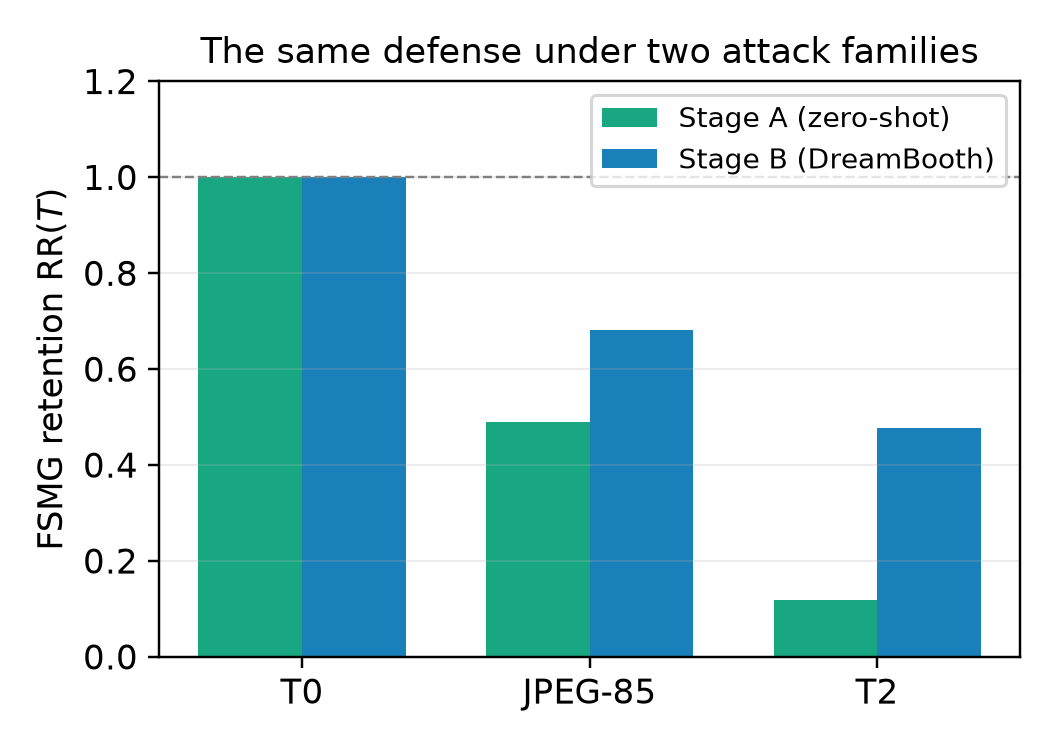
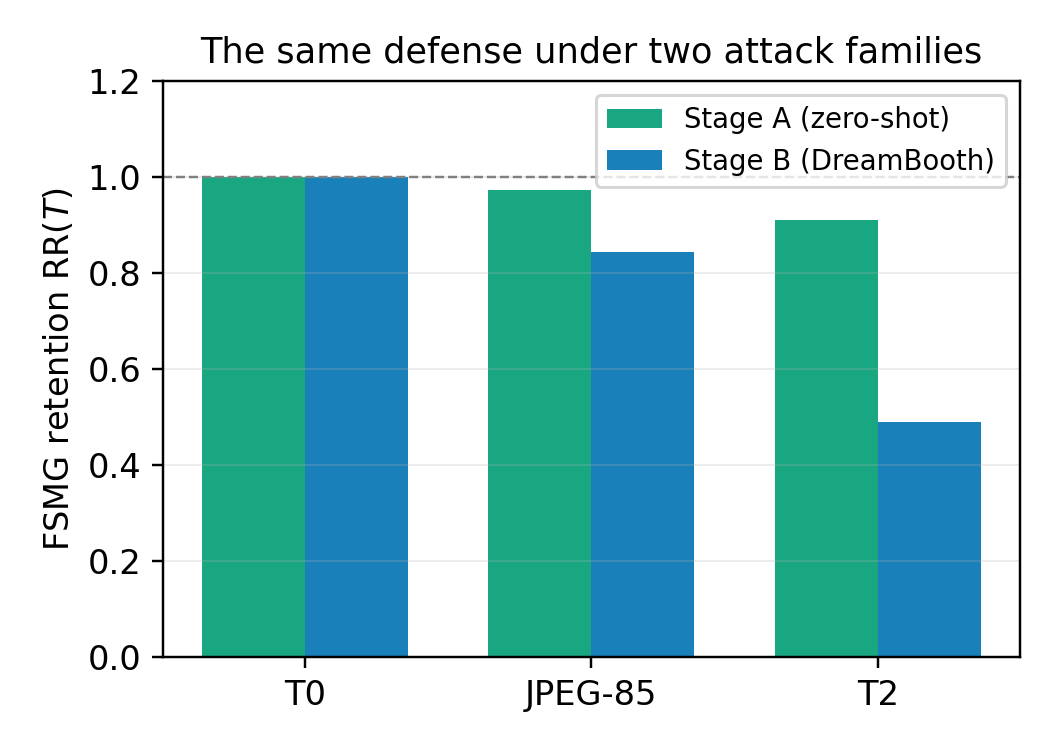
full-run results + figures 1011-0553

diff --git a/report/report.md b/report/report.md
@@ -1,65 +1,62 @@
-# ScrapeBench run preview
+# ScrapeBench run full
 
-Generated 2026-10-11 02:14:32.795169
+Generated 2026-10-11 05:53:04.851549
 
 ## Mean identity similarity by method and tier
 
-| stage   | method   | tier              |     mean |   count |    ci_lo |    ci_hi |
-|:--------|:---------|:------------------|---------:|--------:|---------:|---------:|
-| A       | aspl     | t0                | 0.28806  |      20 | 0.26383  | 0.3122   |
-| A       | aspl     | t1_jpeg65         | 0.33447  |      20 | 0.30915  | 0.36049  |
-| A       | aspl     | t1_jpeg75         | 0.32629  |      20 | 0.30363  | 0.34738  |
-| A       | aspl     | t1_jpeg85         | 0.31603  |      20 | 0.289045 | 0.3432   |
-| A       | aspl     | t1_jpeg95         | 0.30165  |      20 | 0.277325 | 0.324245 |
-| A       | aspl     | t1_webp80         | 0.32254  |      20 | 0.296235 | 0.34935  |
-| A       | aspl     | t2_canvas_dpr1    | 0.33712  |      20 | 0.311325 | 0.362015 |
-| A       | aspl     | t3_agent_facecrop | 0.327335 |      20 | 0.301345 | 0.353805 |
-| A       | aspl     | t4_sr_x2          | 0.35492  |      20 | 0.32754  | 0.38129  |
-| A       | aspl     | t5_i2i30          | 0.175365 |      20 | 0.150745 | 0.198945 |
-| A       | clean    | t0                | 0.35773  |      40 | 0.332978 | 0.382638 |
-| A       | clean    | t1_jpeg65         | 0.34633  |      40 | 0.321885 | 0.370455 |
-| A       | clean    | t1_jpeg75         | 0.350608 |      40 | 0.326823 | 0.374765 |
-| A       | clean    | t1_jpeg85         | 0.35307  |      40 | 0.326865 | 0.378037 |
-| A       | clean    | t1_jpeg95         | 0.354015 |      40 | 0.32965  | 0.377702 |
-| A       | clean    | t1_webp80         | 0.352953 |      40 | 0.32798  | 0.377968 |
-| A       | clean    | t2_canvas_dpr1    | 0.348555 |      40 | 0.322775 | 0.37293  |
-| A       | clean    | t3_agent_facecrop | 0.338475 |      40 | 0.31014  | 0.36661  |
-| A       | clean    | t4_sr_x2          | 0.367022 |      40 | 0.34238  | 0.390638 |
-| A       | clean    | t5_i2i30          | 0.173123 |      40 | 0.148588 | 0.197942 |
-| A       | fsmg     | t0                | 0.30683  |      20 | 0.282255 | 0.332235 |
-| A       | fsmg     | t1_jpeg65         | 0.34047  |      20 | 0.314875 | 0.36558  |
-| A       | fsmg     | t1_jpeg75         | 0.340595 |      20 | 0.31625  | 0.36461  |
-| A       | fsmg     | t1_jpeg85         | 0.32816  |      20 | 0.304375 | 0.35282  |
-| A       | fsmg     | t1_jpeg95         | 0.322095 |      20 | 0.298605 | 0.345705 |
-| A       | fsmg     | t1_webp80         | 0.33491  |      20 | 0.311275 | 0.359155 |
-| A       | fsmg     | t2_canvas_dpr1    | 0.34249  |      20 | 0.316955 | 0.3664   |
-| A       | fsmg     | t3_agent_facecrop | 0.344285 |      20 | 0.32002  | 0.369145 |
-| A       | fsmg     | t4_sr_x2          | 0.35157  |      20 | 0.325505 | 0.37812  |
-| A       | fsmg     | t5_i2i30          | 0.1791   |      20 | 0.154525 | 0.203905 |
-| A       | random   | t0                | 0.33391  |      40 | 0.307088 | 0.360428 |
-| A       | random   | t1_jpeg65         | 0.34838  |      40 | 0.32331  | 0.373827 |
-| A       | random   | t1_jpeg75         | 0.342178 |      40 | 0.31678  | 0.367947 |
-| A       | random   | t1_jpeg85         | 0.348815 |      40 | 0.32451  | 0.372945 |
-| A       | random   | t1_jpeg95         | 0.338373 |      40 | 0.315063 | 0.360745 |
-| A       | random   | t1_webp80         | 0.343512 |      40 | 0.31928  | 0.36729  |
-| A       | random   | t2_canvas_dpr1    | 0.350715 |      40 | 0.327653 | 0.374347 |
-| A       | random   | t3_agent_facecrop | 0.346015 |      40 | 0.321075 | 0.371013 |
-| A       | random   | t4_sr_x2          | 0.35762  |      40 | 0.330632 | 0.385047 |
-| A       | random   | t5_i2i30          | 0.174812 |      40 | 0.148992 | 0.201345 |
-| B       | clean    | t0                | 0.40655  |      12 | 0.387242 | 0.426558 |
-| B       | clean    | t1_jpeg85         | 0.413392 |      12 | 0.394092 | 0.433258 |
-| B       | clean    | t2_canvas_dpr1    | 0.405958 |      12 | 0.385958 | 0.425475 |
-| B       | clean    | t5_i2i30          | 0.216817 |      12 | 0.197    | 0.234958 |
-| B       | fsmg     | t0                | 0.235508 |      12 | 0.215242 | 0.254617 |
-| B       | fsmg     | t1_jpeg85         | 0.296775 |      12 | 0.275558 | 0.317383 |
-| B       | fsmg     | t2_canvas_dpr1    | 0.324517 |      12 | 0.304683 | 0.344808 |
-| B       | fsmg     | t5_i2i30          | 0.189492 |      12 | 0.169042 | 0.210467 |
-| B       | random   | t0                | 0.287525 |      12 | 0.266833 | 0.308758 |
-| B       | random   | t1_jpeg85         | 0.331767 |      12 | 0.311158 | 0.351233 |
-| B       | random   | t2_canvas_dpr1    | 0.354683 |      12 | 0.334325 | 0.3763   |
-| B       | random   | t5_i2i30          | 0.2084   |      12 | 0.189883 | 0.227292 |
-| C       | fsmg     | mix20             | 0.299608 |      12 | 0.27625  | 0.323133 |
-| C       | fsmg     | mix50             | 0.364708 |      12 | 0.343042 | 0.38615  |
-| C       | fsmg     | purify50          | 0.387867 |      12 | 0.36545  | 0.409717 |
+| stage   | method   | tier              |      mean |   count |       ci_lo |     ci_hi |
+|:--------|:---------|:------------------|----------:|--------:|------------:|----------:|
+| A       | aspl     | t0                | 0.283735  |      20 |  0.23085    | 0.33619   |
+| A       | aspl     | t1_jpeg65         | 0.28738   |      20 |  0.235775   | 0.341065  |
+| A       | aspl     | t1_jpeg75         | 0.28866   |      20 |  0.23444    | 0.343165  |
+| A       | aspl     | t1_jpeg85         | 0.291     |      20 |  0.231405   | 0.34888   |
+| A       | aspl     | t1_jpeg95         | 0.282725  |      20 |  0.22609    | 0.33897   |
+| A       | aspl     | t1_webp80         | 0.283615  |      20 |  0.22621    | 0.340915  |
+| A       | aspl     | t2_canvas_dpr1    | 0.288365  |      20 |  0.233245   | 0.343875  |
+| A       | aspl     | t4_sr_x2          | 0.278925  |      20 |  0.22025    | 0.340295  |
+| A       | aspl     | t5_i2i30          | 0.139608  |      13 |  0.104877   | 0.174523  |
+| A       | clean    | t0                | 0.393215  |      20 |  0.316845   | 0.46539   |
+| A       | clean    | t1_jpeg65         | 0.38741   |      20 |  0.30878    | 0.460265  |
+| A       | clean    | t1_jpeg75         | 0.3838    |      20 |  0.30566    | 0.45796   |
+| A       | clean    | t1_jpeg85         | 0.390535  |      20 |  0.31002    | 0.465355  |
+| A       | clean    | t1_jpeg95         | 0.389785  |      20 |  0.31153    | 0.46481   |
+| A       | clean    | t1_webp80         | 0.392725  |      20 |  0.314995   | 0.46774   |
+| A       | clean    | t2_canvas_dpr1    | 0.389775  |      20 |  0.31122    | 0.464465  |
+| A       | clean    | t4_sr_x2          | 0.385335  |      20 |  0.307975   | 0.45766   |
+| A       | clean    | t5_i2i30          | 0.274085  |      20 |  0.21756    | 0.32598   |
+| A       | fsmg     | t0                | 0.27248   |      20 |  0.21697    | 0.326205  |
+| A       | fsmg     | t1_jpeg65         | 0.266245  |      20 |  0.206375   | 0.32283   |
+| A       | fsmg     | t1_jpeg75         | 0.27255   |      20 |  0.21621    | 0.327125  |
+| A       | fsmg     | t1_jpeg85         | 0.27311   |      20 |  0.217835   | 0.327395  |
+| A       | fsmg     | t1_jpeg95         | 0.271955  |      20 |  0.213505   | 0.32852   |
+| A       | fsmg     | t1_webp80         | 0.274565  |      20 |  0.224865   | 0.324925  |
+| A       | fsmg     | t2_canvas_dpr1    | 0.27977   |      20 |  0.22317    | 0.332395  |
+| A       | fsmg     | t3_agent_facecrop | 0.0222    |       2 | -0.00825    | 0.05495   |
+| A       | fsmg     | t4_sr_x2          | 0.273545  |      20 |  0.219555   | 0.32716   |
+| A       | fsmg     | t5_i2i30          | 0.128984  |      19 |  0.0916789  | 0.164353  |
+| A       | random   | t0                | 0.364395  |      20 |  0.28818    | 0.43722   |
+| A       | random   | t1_jpeg65         | 0.372795  |      20 |  0.301715   | 0.440925  |
+| A       | random   | t1_jpeg75         | 0.37353   |      20 |  0.296495   | 0.44404   |
+| A       | random   | t1_jpeg85         | 0.372045  |      20 |  0.297945   | 0.44415   |
+| A       | random   | t1_jpeg95         | 0.36725   |      20 |  0.2907     | 0.439345  |
+| A       | random   | t1_webp80         | 0.367515  |      20 |  0.29422    | 0.4373    |
+| A       | random   | t2_canvas_dpr1    | 0.371485  |      20 |  0.29707    | 0.44394   |
+| A       | random   | t4_sr_x2          | 0.361555  |      20 |  0.289165   | 0.43363   |
+| A       | random   | t5_i2i30          | 0.226915  |      20 |  0.18082    | 0.273225  |
+| B       | clean    | t0                | 0.208367  |       6 |  0.0935833  | 0.329267  |
+| B       | clean    | t1_jpeg85         | 0.211383  |       6 |  0.100767   | 0.325983  |
+| B       | clean    | t2_canvas_dpr1    | 0.214567  |       6 |  0.114717   | 0.3252    |
+| B       | clean    | t5_i2i30          | 0.1451    |       6 |  0.07065    | 0.220783  |
+| B       | fsmg     | t0                | 0.06615   |       6 |  0.0293833  | 0.105683  |
+| B       | fsmg     | t1_jpeg85         | 0.0913167 |       6 |  0.0384     | 0.146867  |
+| B       | fsmg     | t2_canvas_dpr1    | 0.144983  |       6 |  0.0759167  | 0.220733  |
+| B       | fsmg     | t5_i2i30          | 0.0703833 |       6 |  0.0277667  | 0.11295   |
+| B       | random   | t0                | 0.1773    |       6 |  0.0624667  | 0.305533  |
+| B       | random   | t1_jpeg85         | 0.206367  |       6 |  0.10215    | 0.31475   |
+| B       | random   | t2_canvas_dpr1    | 0.210567  |       6 |  0.114667   | 0.306267  |
+| B       | random   | t5_i2i30          | 0.146     |       6 |  0.0719167  | 0.222783  |
+| C       | fsmg     | mix20             | 0.0424667 |       6 | -0.00561667 | 0.08955   |
+| C       | fsmg     | mix50             | 0.0215167 |       6 | -0.0229     | 0.0684833 |
+| C       | fsmg     | purify50          | 0.0780333 |       6 |  0.0437333  | 0.112067  |
 
 See figures/ for collapse curves and runs/*/retention_stage_*.csv for RR tables.
